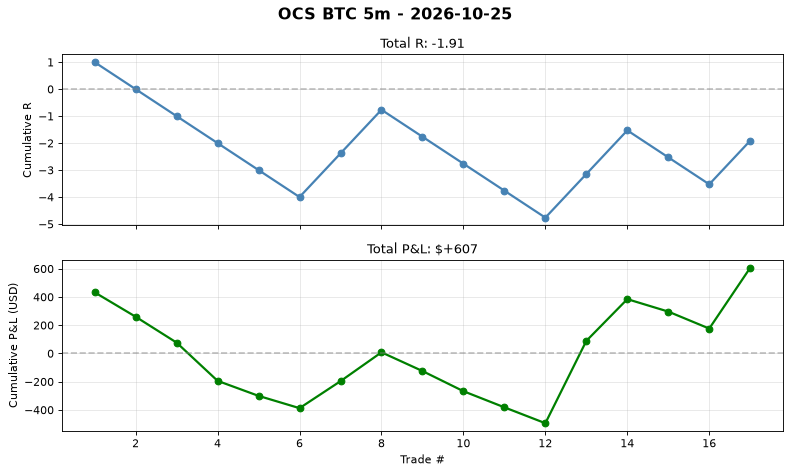
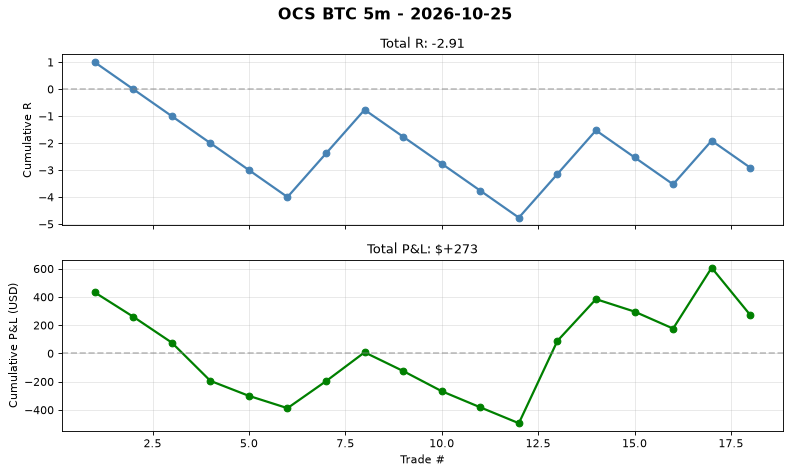
auto(ocs-btc): signal log 2026-10-24T16:58 trades=18

diff --git a/automation/reports/ocs_btc_5m/daily/2026-10-25.md b/automation/reports/ocs_btc_5m/daily/2026-10-25.md
@@ -2,4 +2,4 @@
 
 **No trades today.**
 
-Cumulative stats: 17 trades | WR 35.3% | avg R -0.112
+Cumulative stats: 18 trades | WR 33.3% | avg R -0.162
